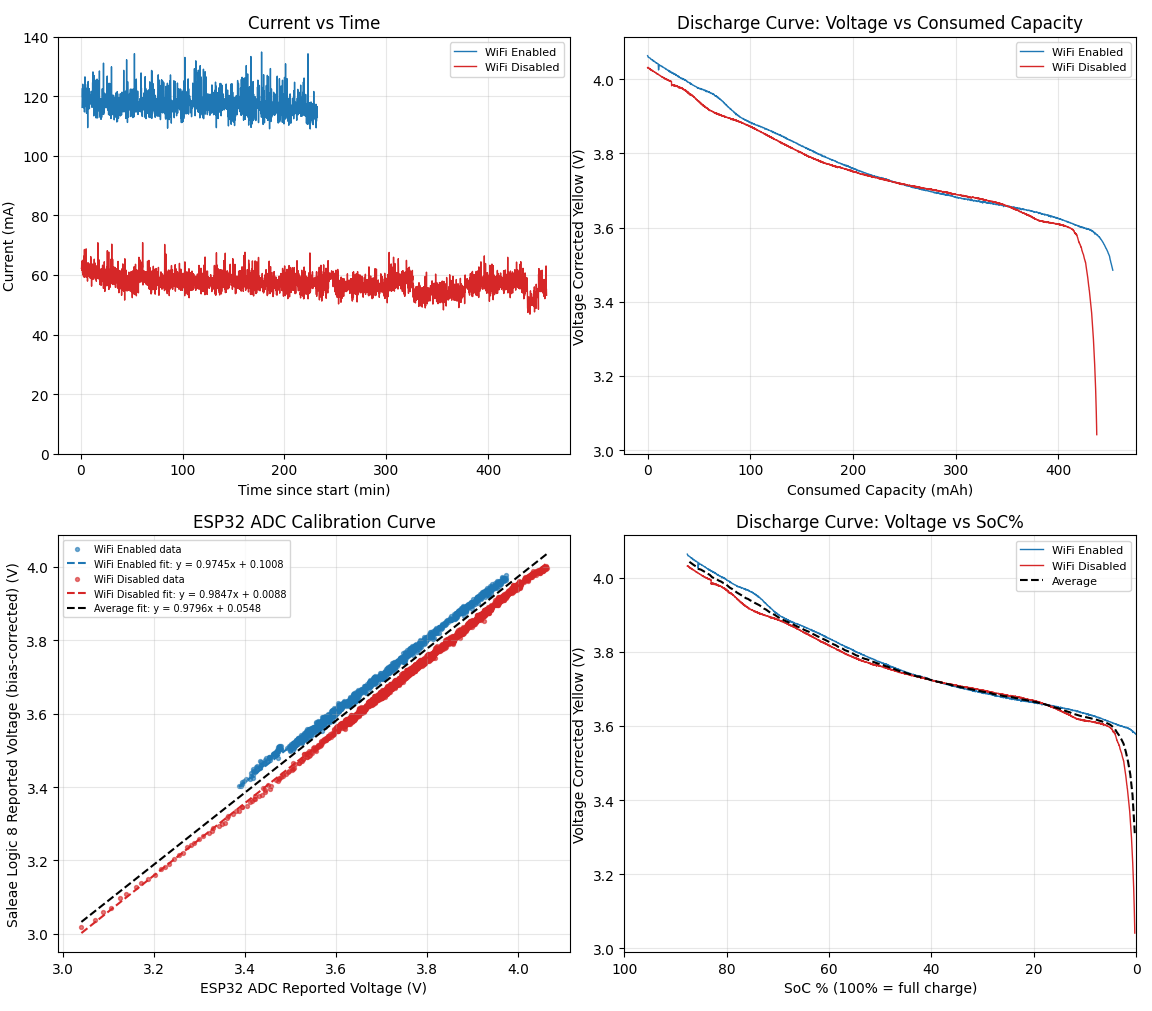
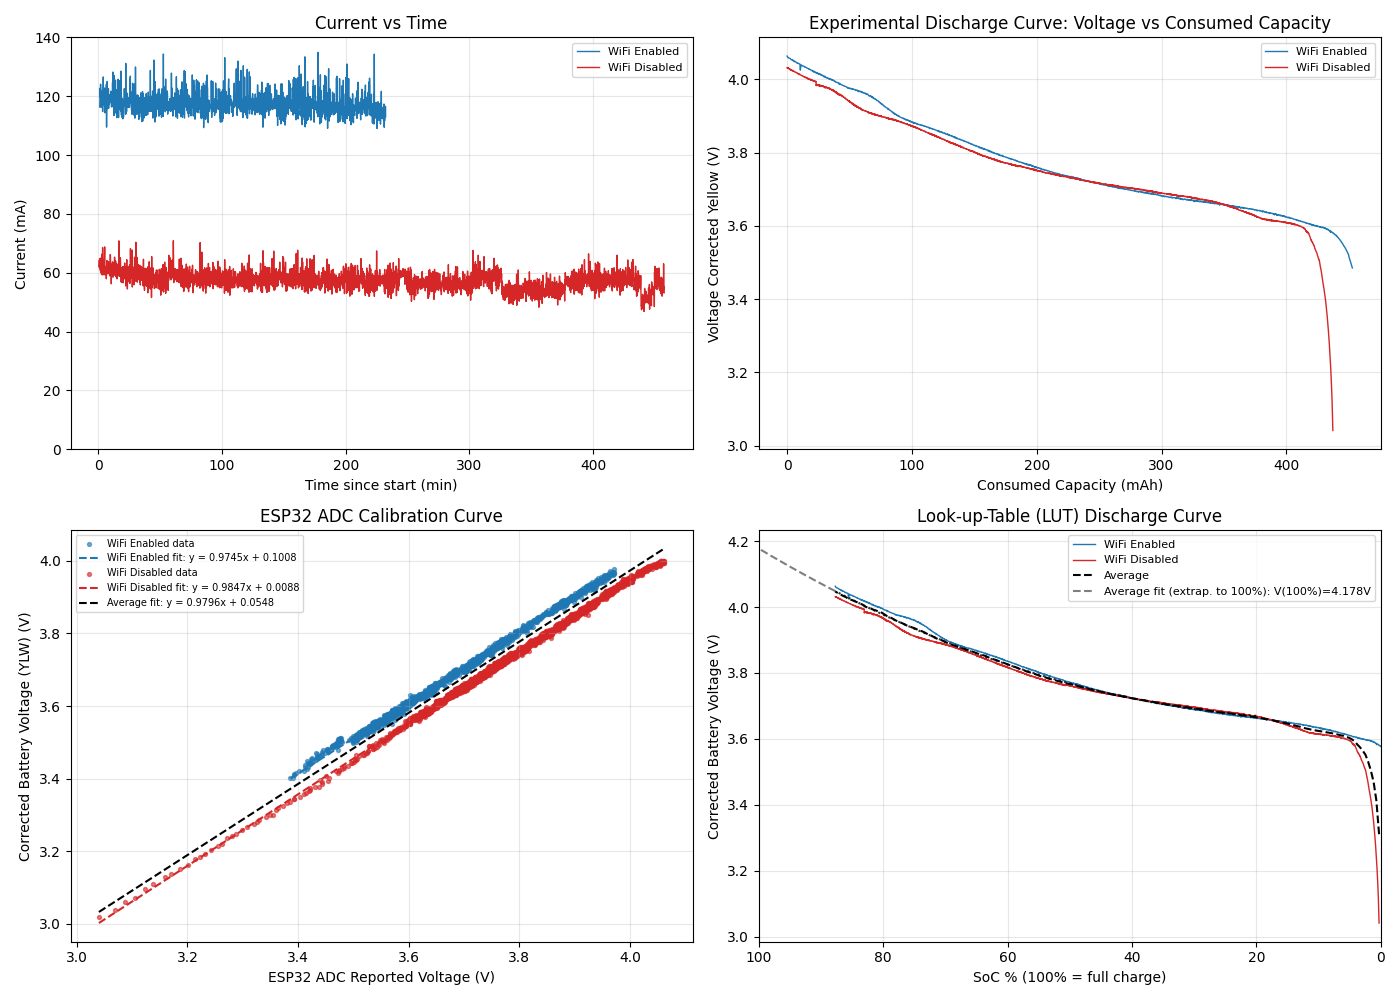
Created LookUpTable for KRL Battery

diff --git a/SW_design/HW_bringup/lipo_discharge_curve/data_analysis.py b/SW_design/HW_bringup/lipo_discharge_curve/data_analysis.py
@@ -57,6 +57,79 @@ def average_curve(x1, y1, x2, y2, num=200):
     return x_common, y_avg
 
 
+# --- Helper: polynomial fit on SoC%>threshold data, extrapolated to 100% SoC ---
+def fit_and_extrapolate_soc(soc_vec, voltage_vec, soc_min=20, soc_full=100, degree=2, num=200):
+    """
+    Fits a polynomial (voltage as a function of SoC%) using only points with
+    soc_vec > soc_min, then extrapolates that fit out to soc_full (100% SoC).
+
+    Returns:
+        poly            - np.poly1d fit object
+        (x_fitted, y_fitted)   - curve over the domain actually covered by data
+        (x_extrap, y_extrap)   - curve over the extrapolated domain (no data)
+    """
+    mask = soc_vec > soc_min
+    x_data = soc_vec[mask]
+    y_data = voltage_vec[mask]
+
+    coeffs = np.polyfit(x_data, y_data, degree)
+    poly = np.poly1d(coeffs)
+
+    x_actual_max = x_data.max()  # highest SoC% actually reached in the discharge test
+
+    x_fitted = np.linspace(soc_min, x_actual_max, num)
+    y_fitted = poly(x_fitted)
+
+    x_extrap = np.linspace(x_actual_max, soc_full, num)
+    y_extrap = poly(x_extrap)
+
+    return poly, (x_fitted, y_fitted), (x_extrap, y_extrap)
+
+
+# --- Helper: build a voltage->SoC lookup table from the averaged discharge curve ---
+def build_soc_voltage_table(soc_avg, v_avg, poly_avg, x_actual_max, soc_full=100, n_points=101):
+    """
+    soc_avg, v_avg   - measured average curve (SoC%, voltage), SoC ascending
+    poly_avg         - polynomial fit (SoC>threshold) used to extrapolate up to soc_full
+    x_actual_max     - highest SoC% actually reached by measurement (fit/extrapolation boundary)
+    Returns (voltage, soc) arrays, n_points long, sorted ascending by voltage.
+    """
+    mask = (soc_avg >= 0) & (soc_avg <= soc_full)
+    soc_meas, v_meas = soc_avg[mask], v_avg[mask]
+
+    soc_tail = np.linspace(x_actual_max, soc_full, 200)
+    v_tail = poly_avg(soc_tail)
+
+    soc_combined = np.concatenate([soc_meas, soc_tail[1:]])
+    v_combined = np.concatenate([v_meas, v_tail[1:]])
+
+    soc_samples = np.linspace(0, soc_full, n_points)
+    v_samples = np.interp(soc_samples, soc_combined, v_combined)
+
+    order = np.argsort(v_samples)
+    return v_samples[order], soc_samples[order]
+
+
+def write_soc_table_header(v_sorted, soc_sorted, path="BatterySoCTable.h"):
+    lines = [
+        "// BatterySoCTable.h",
+        "// Auto-generated from averaged discharge curve (subplot 4 'Average' line)",
+        "// Voltage -> State of Charge lookup table",
+        "#pragma once",
+        "#include <stddef.h>",
+        "",
+        "struct SoCPoint { float voltage; float soc; };",
+        "// Sorted ascending by voltage",
+        "static const SoCPoint socTable[] = {",
+    ]
+    for v, s in zip(v_sorted, soc_sorted):
+        lines.append(f"    {{{v:.4f}f, {s:.2f}f}},")
+    lines.append("};")
+    lines.append("static const size_t socTableSize = sizeof(socTable) / sizeof(socTable[0]);")
+    with open(path, "w") as f:
+        f.write("\n".join(lines) + "\n")
+
+
 # --- Helper: plot one dataset onto the shared axes ---
 def plot_dataset(ax1, ax2, ax3, ax4, data, color, label):
     time_vec = data["time_vec"]
@@ -78,7 +151,8 @@ def plot_dataset(ax1, ax2, ax3, ax4, data, color, label):
     formula_str = f"y = {slope:.4f}x {sign} {abs(intercept):.4f}"
     ax3.plot(fit_x, fit_y, color=color, linewidth=1.5, linestyle="--", label=f"{label} fit: {formula_str}")
 
-    ax4.plot(soc_pct_vec-12.3, voltage_coorected_yellow_vec, color=color, linewidth=1, label=label)
+    soc_shifted = soc_pct_vec - 12.3
+    ax4.plot(soc_shifted, voltage_coorected_yellow_vec, color=color, linewidth=1, label=label)
 
     return slope, intercept
 
@@ -115,7 +189,24 @@ x_avg4, y_avg4 = average_curve(
     data1["soc_pct_vec"], data1["voltage_coorected_yellow_vec"],
     data2["soc_pct_vec"], data2["voltage_coorected_yellow_vec"]
 )
-ax4.plot(x_avg4-12.3, y_avg4, color="black", linewidth=1.5, linestyle="--", label="Average")
+x_avg4_shifted = x_avg4 - 12.3
+ax4.plot(x_avg4_shifted, y_avg4, color="black", linewidth=1.5, linestyle="--", label="Average")
+
+# Polynomial fit on the averaged curve (SoC%>20 points), extrapolated to 100% SoC
+poly_avg, (x_fit_avg, y_fit_avg), (x_extrap_avg, y_extrap_avg) = fit_and_extrapolate_soc(
+    x_avg4_shifted, y_avg4, soc_min=20, soc_full=100, degree=2
+)
+ax4.plot(x_fit_avg, y_fit_avg, color="black", linewidth=1.5, linestyle=":", alpha=0.8)
+ax4.plot(x_extrap_avg, y_extrap_avg, color="black", linewidth=1.5, linestyle="--", alpha=0.5,
+          label=f"Average fit (extrap. to 100%): V(100%)={poly_avg(100):.3f}V")
+
+# --- Generate BatterySoCTable.h from the averaged curve ---
+v_table, soc_table = build_soc_voltage_table(
+    x_avg4_shifted, y_avg4, poly_avg, x_avg4_shifted.max(), soc_full=100, n_points=101
+)
+write_soc_table_header(v_table, soc_table, "BatterySoCTable.h")
+print(f"Wrote BatterySoCTable.h with {len(v_table)} points "
+      f"(voltage range {v_table.min():.3f}V - {v_table.max():.3f}V)")
 
 # --- Labels/titles ---
 ax1.set_xlabel("Time since start (min)")

diff --git a/SW_design/HW_bringup/lipo_discharge_curve/BatterySoCTable.h b/SW_design/HW_bringup/lipo_discharge_curve/BatterySoCTable.h
@@ -1,0 +1,112 @@
+// BatterySoCTable.h
+// Auto-generated from averaged discharge curve (subplot 4 'Average' line)
+// Voltage -> State of Charge lookup table
+#pragma once
+#include <stddef.h>
+
+struct SoCPoint { float voltage; float soc; };
+// Sorted ascending by voltage
+static const SoCPoint socTable[] = {
+    {3.3108f, 0.00f},
+    {3.4530f, 1.00f},
+    {3.5304f, 2.00f},
+    {3.5671f, 3.00f},
+    {3.5887f, 4.00f},
+    {3.6026f, 5.00f},
+    {3.6093f, 6.00f},
+    {3.6136f, 7.00f},
+    {3.6178f, 8.00f},
+    {3.6212f, 9.00f},
+    {3.6241f, 10.00f},
+    {3.6275f, 11.00f},
+    {3.6316f, 12.00f},
+    {3.6370f, 13.00f},
+    {3.6415f, 14.00f},
+    {3.6463f, 15.00f},
+    {3.6504f, 16.00f},
+    {3.6549f, 17.00f},
+    {3.6590f, 18.00f},
+    {3.6623f, 19.00f},
+    {3.6652f, 20.00f},
+    {3.6680f, 21.00f},
+    {3.6707f, 22.00f},
+    {3.6741f, 23.00f},
+    {3.6768f, 24.00f},
+    {3.6785f, 25.00f},
+    {3.6810f, 26.00f},
+    {3.6838f, 27.00f},
+    {3.6863f, 28.00f},
+    {3.6902f, 29.00f},
+    {3.6925f, 30.00f},
+    {3.6956f, 31.00f},
+    {3.6983f, 32.00f},
+    {3.7011f, 33.00f},
+    {3.7040f, 34.00f},
+    {3.7071f, 35.00f},
+    {3.7100f, 36.00f},
+    {3.7134f, 37.00f},
+    {3.7167f, 38.00f},
+    {3.7198f, 39.00f},
+    {3.7234f, 40.00f},
+    {3.7277f, 41.00f},
+    {3.7309f, 42.00f},
+    {3.7342f, 43.00f},
+    {3.7384f, 44.00f},
+    {3.7433f, 45.00f},
+    {3.7469f, 46.00f},
+    {3.7520f, 47.00f},
+    {3.7568f, 48.00f},
+    {3.7614f, 49.00f},
+    {3.7666f, 50.00f},
+    {3.7709f, 51.00f},
+    {3.7761f, 52.00f},
+    {3.7809f, 53.00f},
+    {3.7871f, 54.00f},
+    {3.7926f, 55.00f},
+    {3.7996f, 56.00f},
+    {3.8051f, 57.00f},
+    {3.8122f, 58.00f},
+    {3.8193f, 59.00f},
+    {3.8263f, 60.00f},
+    {3.8335f, 61.00f},
+    {3.8402f, 62.00f},
+    {3.8469f, 63.00f},
+    {3.8542f, 64.00f},
+    {3.8603f, 65.00f},
+    {3.8668f, 66.00f},
+    {3.8737f, 67.00f},
+    {3.8800f, 68.00f},
+    {3.8861f, 69.00f},
+    {3.8938f, 70.00f},
+    {3.9019f, 71.00f},
+    {3.9106f, 72.00f},
+    {3.9194f, 73.00f},
+    {3.9282f, 74.00f},
+    {3.9360f, 75.00f},
+    {3.9433f, 76.00f},
+    {3.9515f, 77.00f},
+    {3.9596f, 78.00f},
+    {3.9699f, 79.00f},
+    {3.9802f, 80.00f},
+    {3.9884f, 81.00f},
+    {3.9957f, 82.00f},
+    {4.0032f, 83.00f},
+    {4.0130f, 84.00f},
+    {4.0212f, 85.00f},
+    {4.0301f, 86.00f},
+    {4.0396f, 87.00f},
+    {4.0513f, 88.00f},
+    {4.0611f, 89.00f},
+    {4.0711f, 90.00f},
+    {4.0812f, 91.00f},
+    {4.0914f, 92.00f},
+    {4.1018f, 93.00f},
+    {4.1122f, 94.00f},
+    {4.1228f, 95.00f},
+    {4.1335f, 96.00f},
+    {4.1443f, 97.00f},
+    {4.1553f, 98.00f},
+    {4.1663f, 99.00f},
+    {4.1775f, 100.00f},
+};
+static const size_t socTableSize = sizeof(socTable) / sizeof(socTable[0]);
